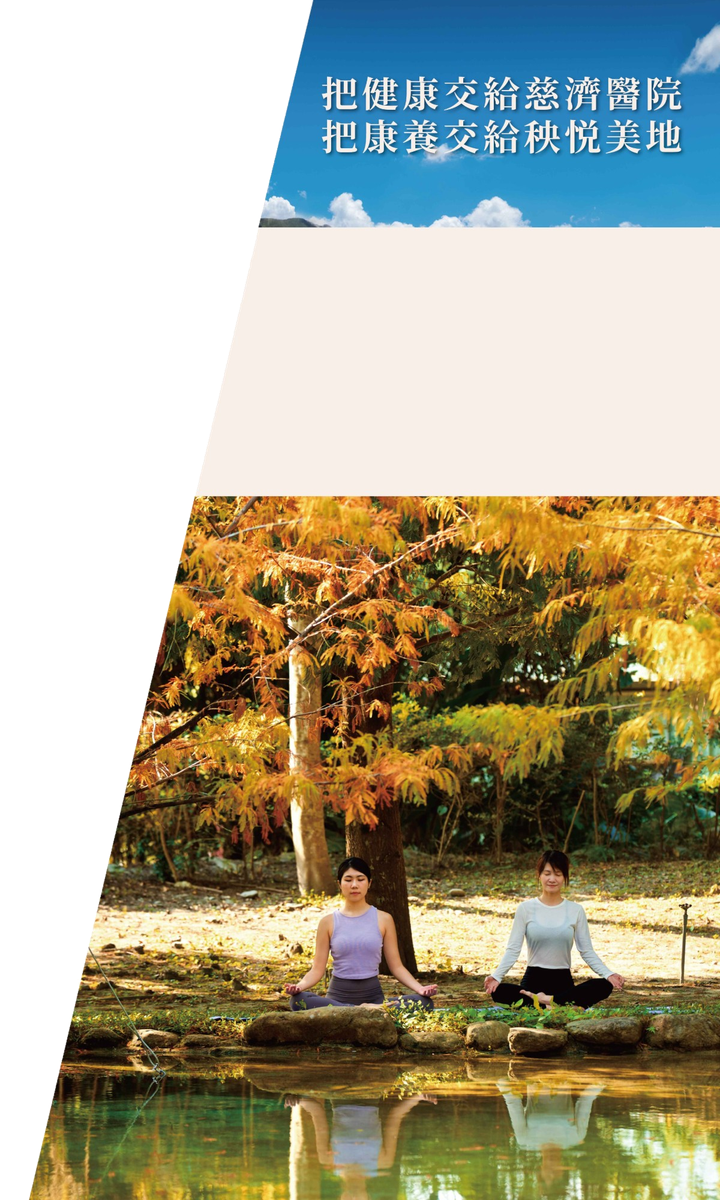
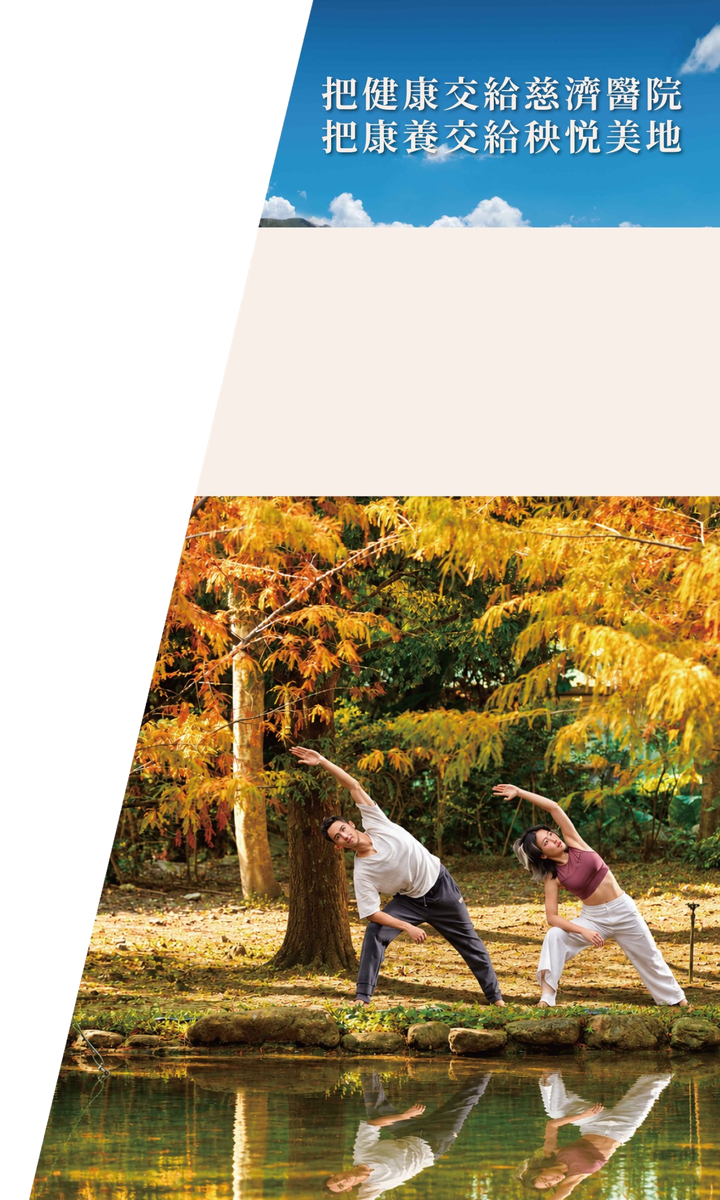
Replace panel 1 artwork
Claude-Session: https://claude.ai/code/session_01HARMJqV1JtJEXYu91HiGx4

diff --git a/index.html b/index.html
@@ -263,19 +263,19 @@ const left = new THREE.Group(); scene.add(left);
 const rightPanels = new THREE.Group(); right.add(rightPanels);
 const pw = RIGHT_W / 3;
 ["p4.jpg", "p5.jpg", "p6.jpg"].forEach((f, i) => {
-  const b = board("tex/" + f + "?v=3", pw - 0.002, PANEL_H);
+  const b = board("tex/" + f + "?v=4", pw - 0.002, PANEL_H);
   b.position.set(pw * i + pw / 2, CAB_H + PANEL_H / 2, BOARD_Z); rightPanels.add(b);
 });
 const leftPanels = new THREE.Group(); left.add(leftPanels);
 const lw = LEFT_W / 2;
 ["p3.jpg", "p2.jpg"].forEach((f, i) => {
-  const b = board("tex/" + f + "?v=3", lw - 0.002, PANEL_H);
+  const b = board("tex/" + f + "?v=4", lw - 0.002, PANEL_H);
   b.position.set(-(lw * i + lw / 2), CAB_H + PANEL_H / 2, BOARD_Z); leftPanels.add(b);
 });
 // panel 1: floor-standing slanted board past the end of the left cabinet, hinged at its right edge
 const p1Pivot = new THREE.Group(); left.add(p1Pivot);
 p1Pivot.position.set(-LEFT_W, 0, BOARD_Z);
-const p1 = board("tex/p1.png?v=3", P1_W, P1_H, true);
+const p1 = board("tex/p1.png?v=4", P1_W, P1_H, true);
 p1.position.set(-P1_W / 2, P1_H / 2, 0); p1Pivot.add(p1);
 
 let rightCab, leftCab;
